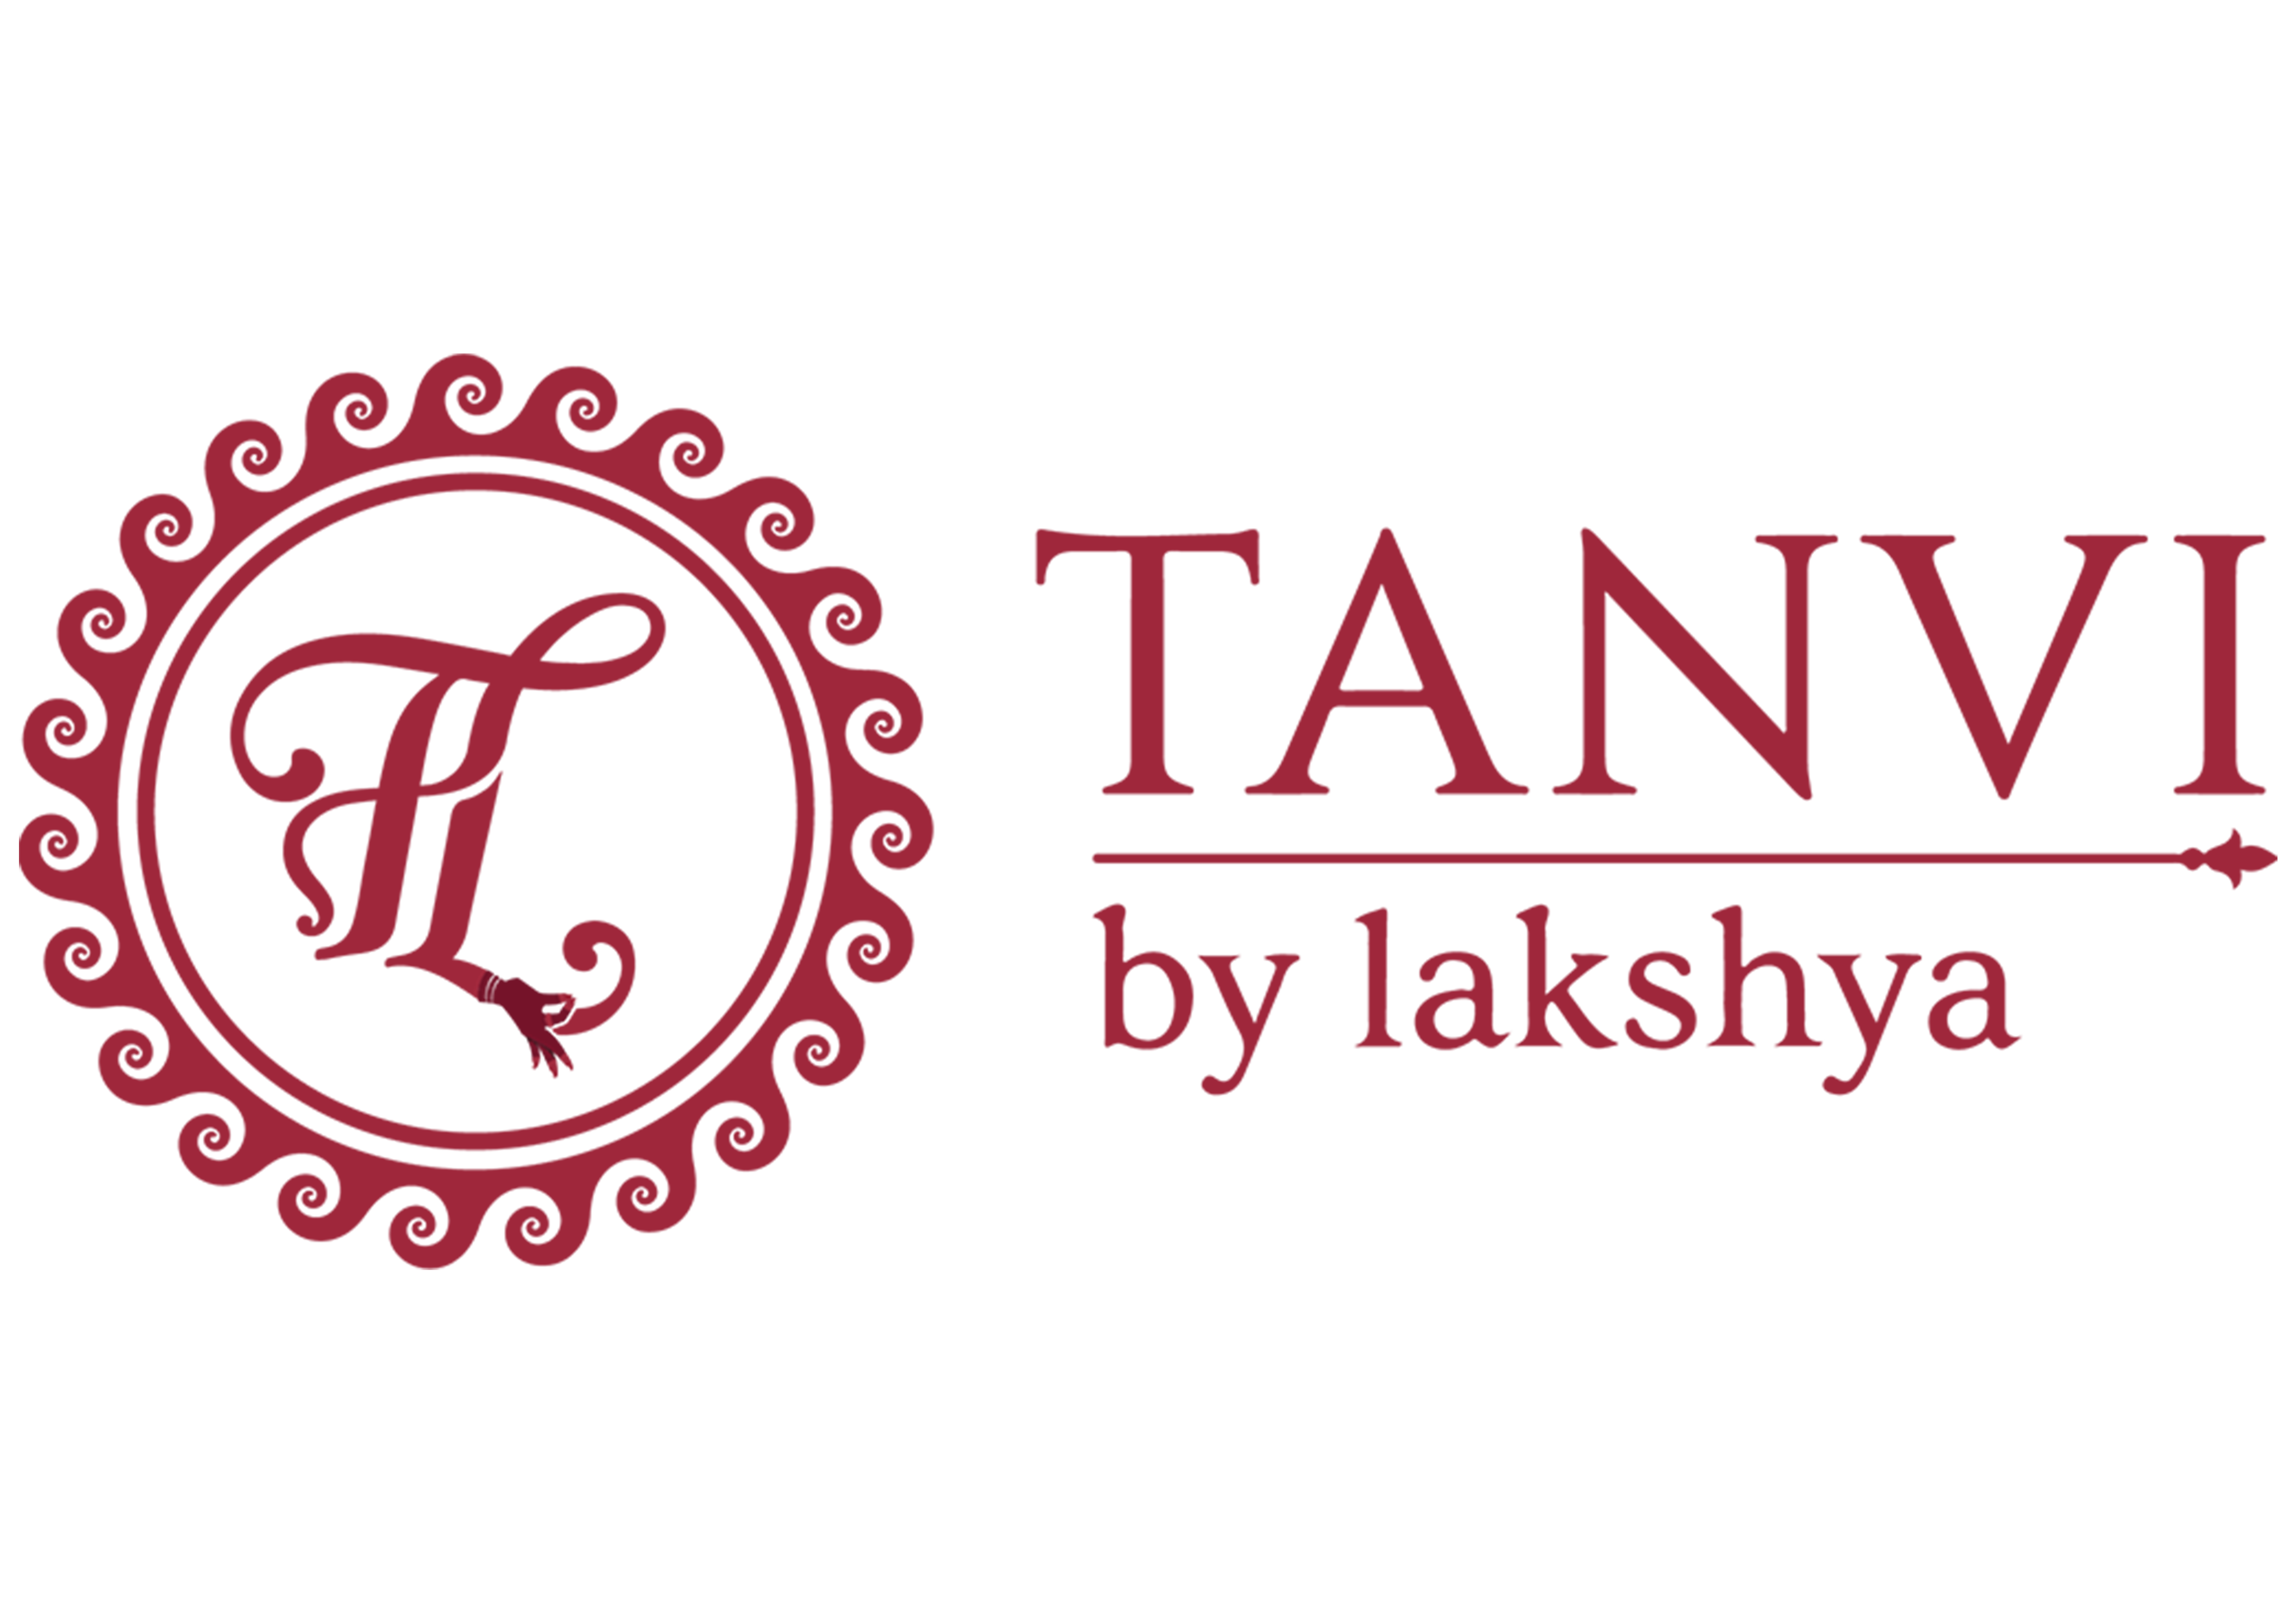
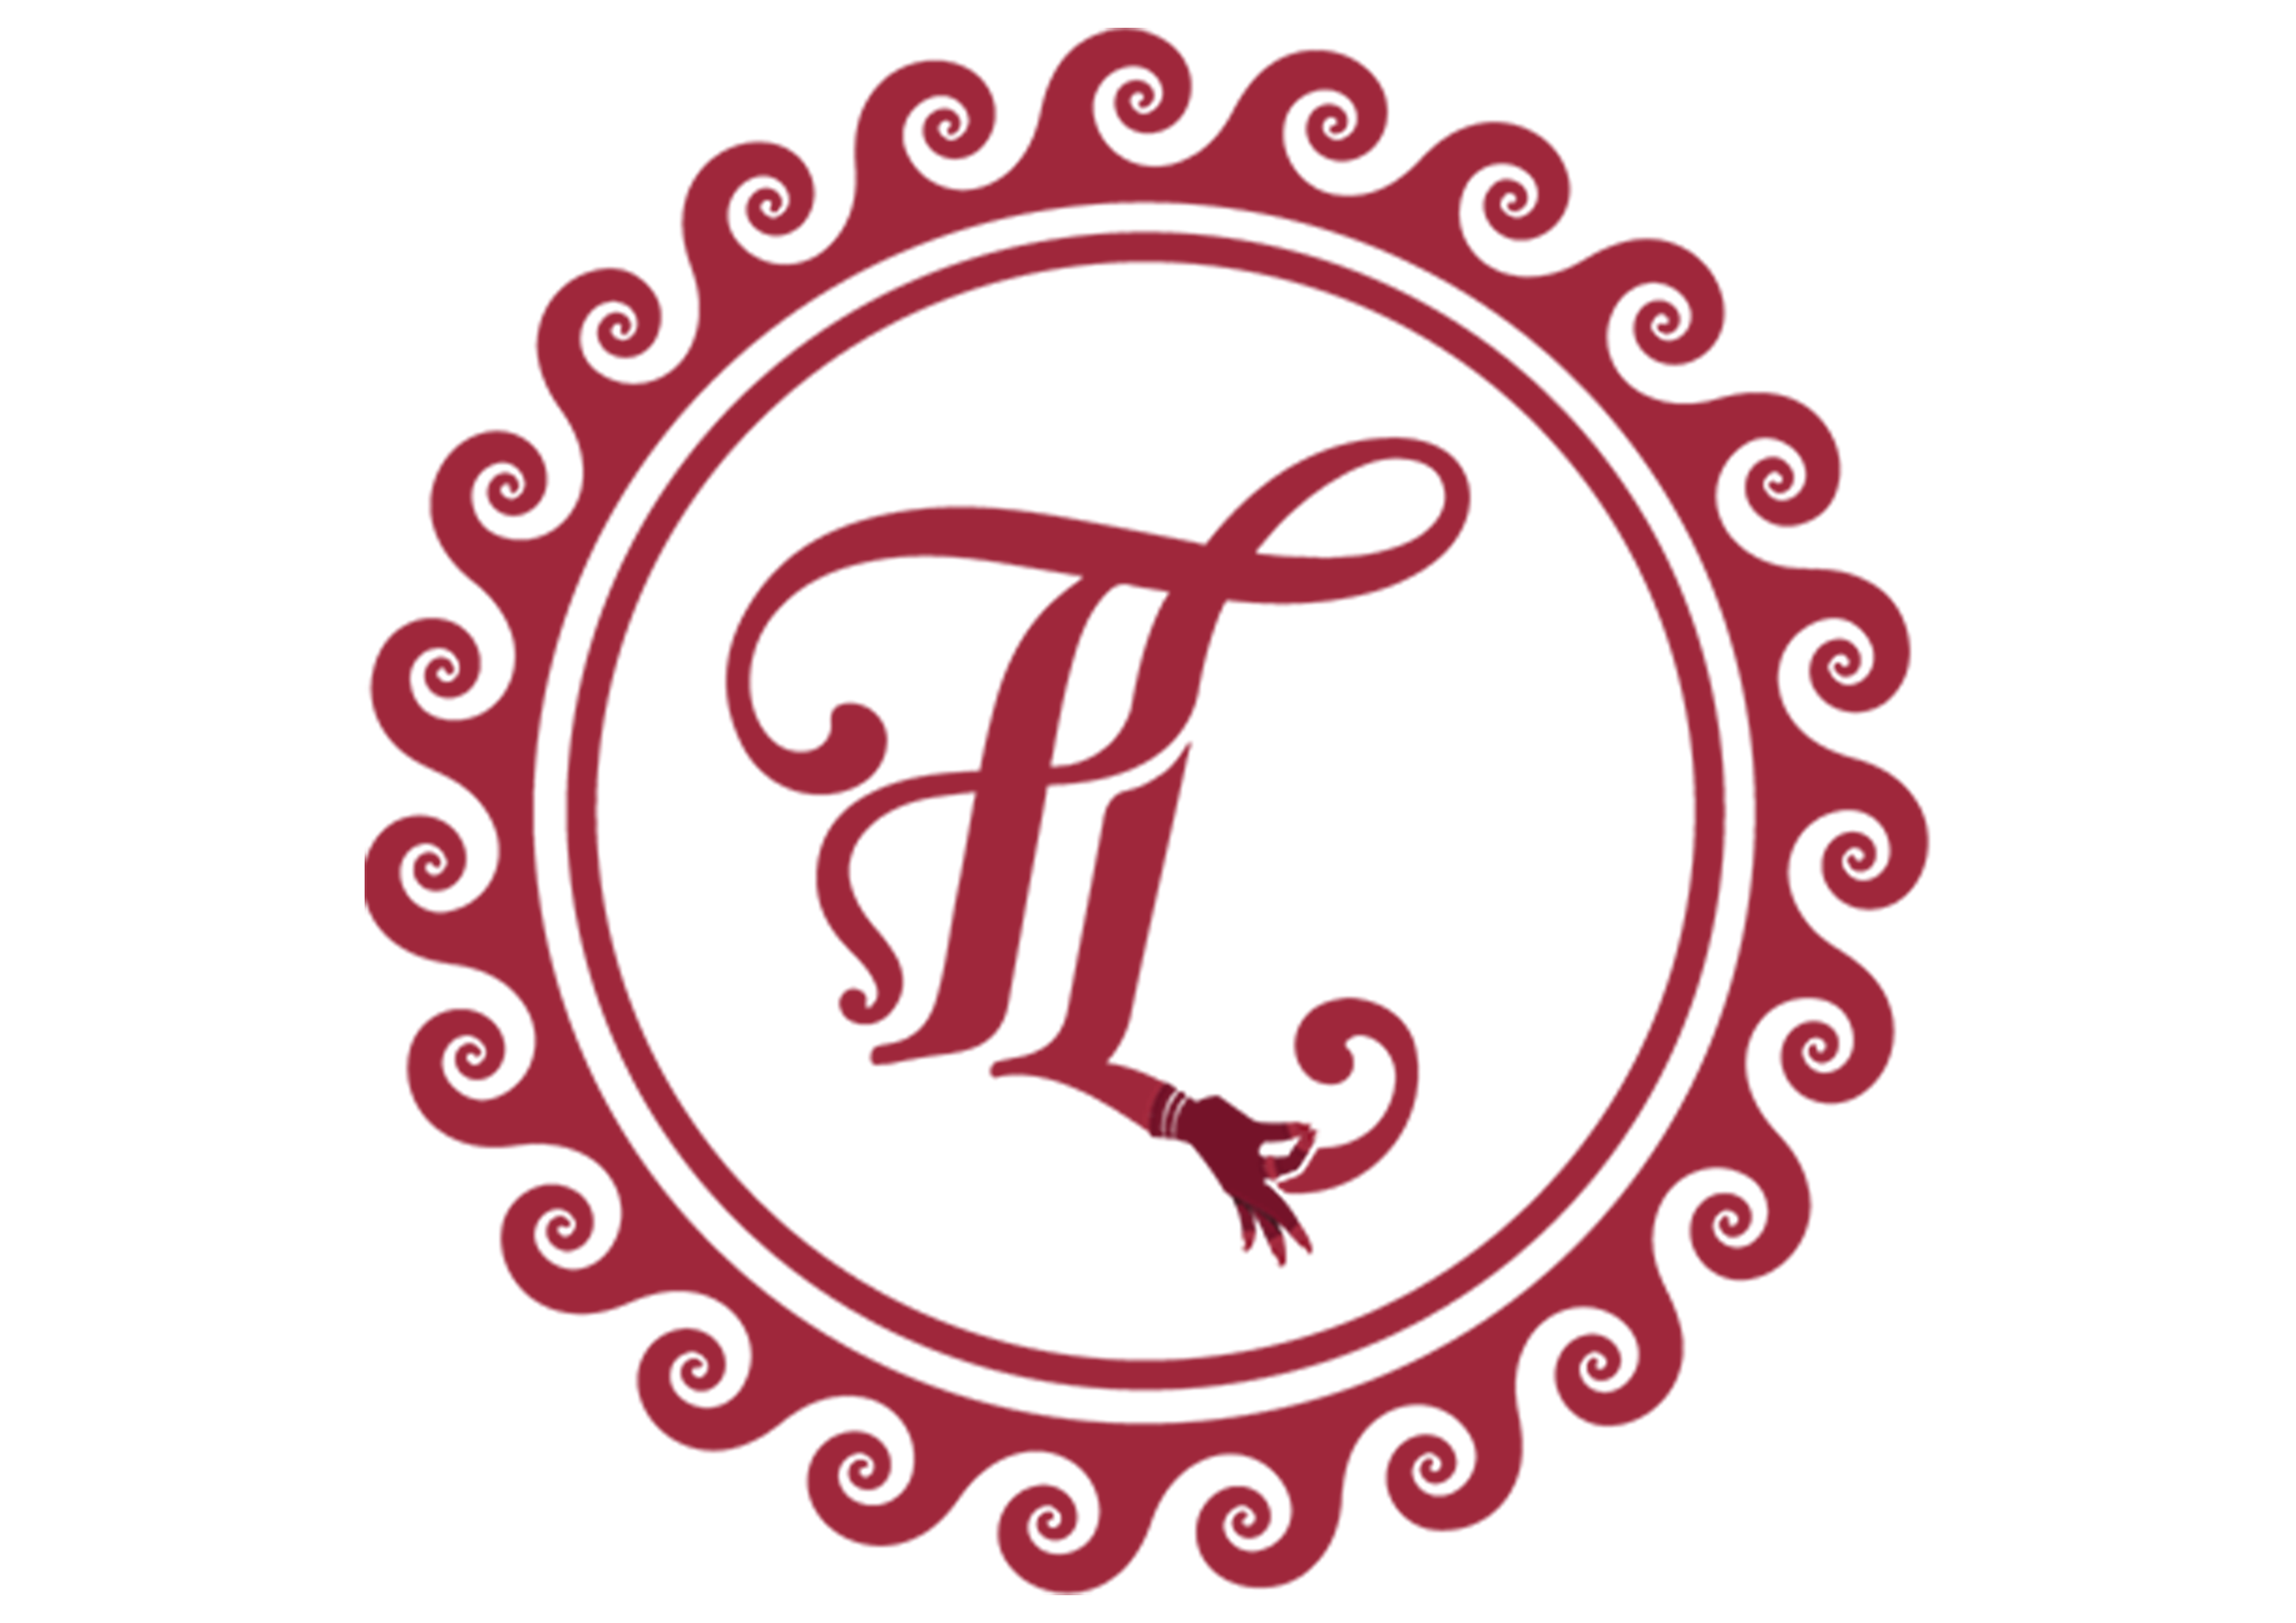
updation

Changed region(s): [[0.0, 0.0, 0.9996, 0.9943]]

diff --git a/index.html b/index.html
@@ -484,7 +484,7 @@
   <div class="container">
     <div class="f-grid">
       <div class="f-brand-col">
-        <img src="assets/navlog.png" alt="Tanvi Logo" class="f-logo">
+        <img src="assets/navneww.png" alt="Tanvi Logo" class="f-logo">
         <div class="f-brand-word">Tanvi by Lakshya<span>TRADITION · ELEGANCE · AUTHENTICITY</span></div>
         <p>A premium destination for Kerala traditional wear and heritage craftsmanship.</p>
       </div>
@@ -498,7 +498,7 @@
         <h5>Assistance</h5>
        <!-- <a href="#">Track Order</a>
         <a href="#">Shipping & Returns</a> -->
-        <a href="#">Contact Us</a>
+        <a href="https://wa.me/[phone redacted]">Contact Us</a>
       </div>
       <div class="f-contact">
         <h5>Reach Us</h5>

diff --git a/style.css b/style.css
@@ -353,10 +353,10 @@ button { font-family: inherit; cursor: pointer; border: none; background: none; 
 .f-grid { display: grid; grid-template-columns: 2fr 1fr 1fr 1.5fr; gap: 50px; padding-bottom: 60px; }
 .f-logo { height: 80px; filter: brightness(0) invert(1) sepia(1) saturate(3) hue-rotate(330deg); margin-bottom: 20px;}
 .f-brand-word { font-family: var(--display); font-size: 1.5rem; letter-spacing: 2px; margin-bottom: 15px; color: var(--peach-light);}
-.f-brand-word span { display: block; font-family: var(--body); font-size: 0.6rem; letter-spacing: 4px; color: var(--gold); margin-top: 5px; }
+.f-brand-word span { display: block; font-family: var(--body); font-size: 0.6rem; letter-spacing: 4px; color: var(rgba(239, 215, 199, 0.95)); margin-top: 5px; }
 .f-brand-col p { opacity: 0.7; line-height: 1.8; max-width: 300px; }
 
-.f-links h5, .f-contact h5 { font-family: var(--display); font-size: 1.2rem; letter-spacing: 2px; color: var(--gold); margin-bottom: 25px; text-transform: uppercase; }
+.f-links h5, .f-contact h5 { font-family: var(--display); font-size: 1.2rem; letter-spacing: 2px; color: var(rgba(239, 215, 199, 0.95)); margin-bottom: 25px; text-transform: uppercase; }
 .f-links a { display: block; margin-bottom: 15px; opacity: 0.7; transition: opacity 0.3s, color 0.3s; }
 .f-links a:hover { opacity: 1; color: var(--white); }
 .f-contact p { margin-bottom: 15px; opacity: 0.7; }